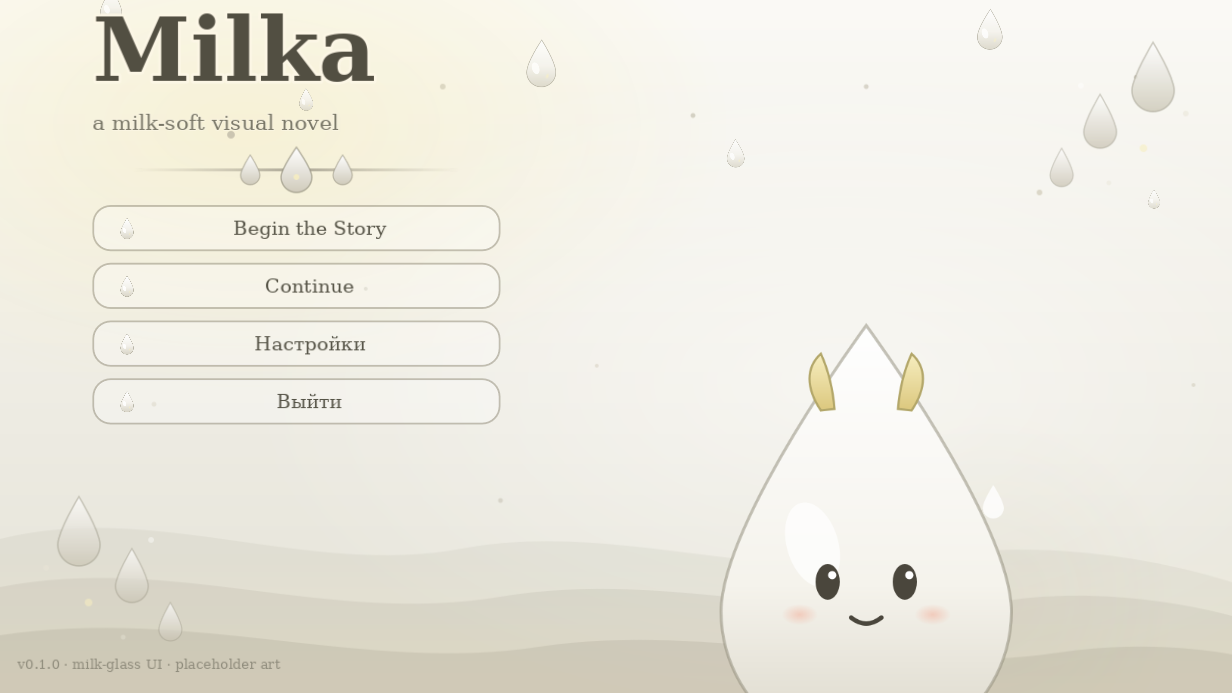
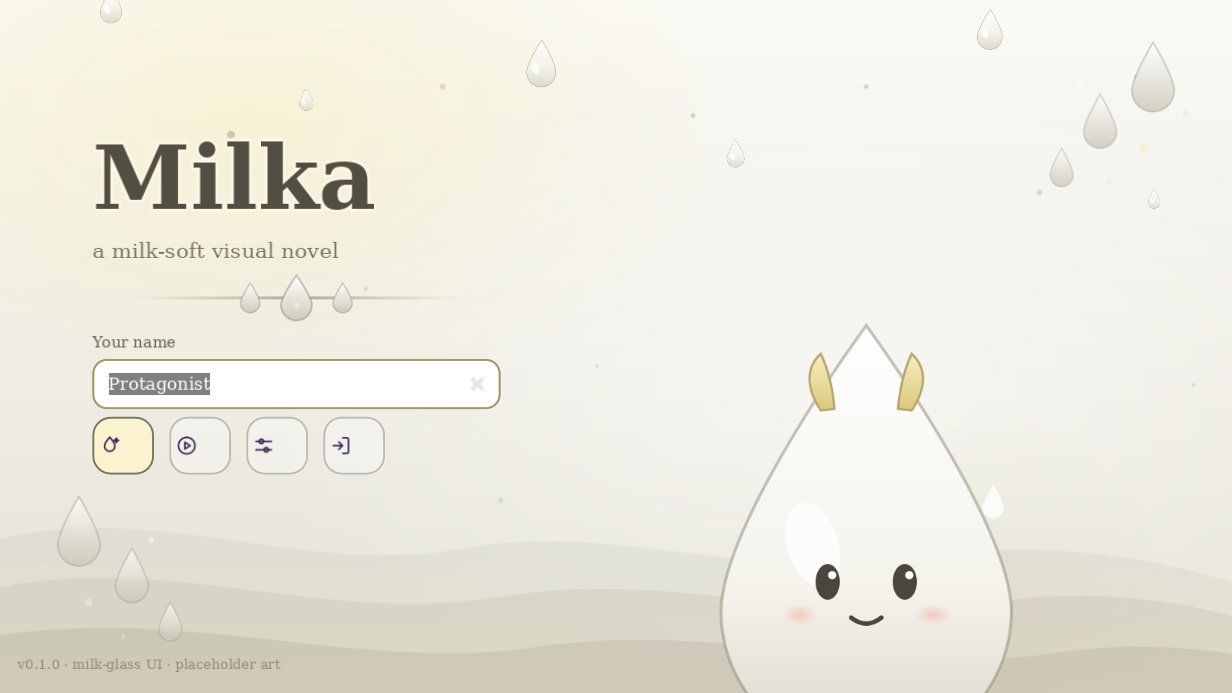
Translate all milk-glass UI strings + document how to customize them
- title screen: subtitle, version line, name label/placeholder/tooltip and the
  four icon-chip tooltips (from the shared TITLE_MENU table) are msgids,
  translated through *_MSGID constants in title_screen.gd
- settings panel: every row label + panel title + language names are msgids,
  translated by _retranslate(); language list now uses LANGUAGE_MSGIDS +
  LANGUAGE_CODES so adding a locale is one edit
- both scenes re-translate live on NOTIFICATION_TRANSLATION_CHANGED (guarded
  with is_node_ready(), the notification can arrive before _ready)
- i18n/ru.po: added the missing UI msgids (subtitle, version, name tooltip,
  Begin the Story, Continue, English, Russian)
- FIX: ambient animation still overwrote TitleBlock:position:y, dragging the
  whole menu to y=0 - track removed (AnimationLibrary kept)
- docs/TRANSLATING.md: how to change a translation, add a string, add a
  language, and how to verify; linked from README
- tools/probe_i18n_ui.gd + probe_i18n_switch.gd: every authored string printed
  in both locales (zero script errors) and live switching verified
- screenshots: title + settings in Russian

Changed region(s): [[0.0617, 0.1515, 0.401, 0.6667], [0.0617, 0.0, 0.3084, 0.1212], [0.0925, 0.6667, 0.1234, 0.697]]

diff --git a/docs/TRANSLATING.md b/docs/TRANSLATING.md
@@ -1,0 +1,114 @@
+# Translating the UI
+
+Every string this project shows is translatable. This guide covers the parts
+added with the milk-glass UI (title screen, settings panel, droplet chrome)
+and how to change or extend them.
+
+## How translation works here
+
+* **Source language is English.** The English text in the `.tscn` / `.gd` file
+  *is* the msgid. `tr("Settings")` looks up `Settings` in the active catalog;
+  if nothing matches, the English text is shown as-is.
+* **Catalogs live in `i18n/*.po`.** Only `i18n/ru.po` is registered today
+  (`project.godot` → `locale/translations`).
+* **The active language is a setting.** `SettingsStore`
+  (`autoloads/settings_store.gd`) writes `language` into `user://settings.json`
+  and calls `TranslationServer.set_locale()`. The title screen and the in-game
+  panel share that file, so a change in one place applies everywhere.
+* **Strings re-translate live.** Both the title screen
+  (`scenes/title_screen.gd`) and the settings panel
+  (`scenes/ui/settings_panel.gd`) listen for `NOTIFICATION_TRANSLATION_CHANGED`
+  and re-apply their strings, so switching language needs no restart.
+
+## Where the translatable strings are
+
+| Where | What | How it is looked up |
+| --- | --- | --- |
+| `scenes/title_screen.tscn` | subtitle, version line, name label, name placeholder, name tooltip | `_translate_labels()` in `scenes/title_screen.gd`, via the `*_MSGID` constants at the top of that file |
+| `MilkGlass.TITLE_MENU` (`scenes/ui/milk_glass.gd`) | icon-chip tooltips: "Begin the Story", "Continue", "Settings", "Quit" | `_translate_labels()` translates each entry of the shared table |
+| `scenes/ui/settings_panel.tscn` | panel title, row labels ("Language", "Text speed", "Text size", "Fullscreen", "V-Sync", "Master volume", "SFX volume"), language names | `_retranslate()` in `scenes/ui/settings_panel.gd`, via its `*_MSGID` constants |
+| `dialogue/*.dialogue` | story text and character names | Dialogue Manager, with context `dialogue` |
+| `scenes/vn_balloon.gd` | in-game chrome (save/load/skip/log/settings…) | `tr()` calls in the balloon script |
+
+Convention: the msgid constants at the top of each script are the single place
+to look when you want to know which strings a scene owns.
+
+## Change a translation
+
+1. Open `i18n/ru.po`.
+2. Find the msgid (the English text) and edit its `msgstr`:
+
+   ```po
+   msgid "Text speed"
+   msgstr "Скорость текста"
+   ```
+
+3. Save and run. No import step is needed — Godot reads `.po` files at startup.
+
+The msgid must match the source text **exactly**, including punctuation and the
+`·` separators in the version line.
+
+## Add a new translatable string
+
+1. Add the English text to the scene (or script) and wrap it in `tr()`:
+
+   ```gdscript
+   my_label.text = tr("My new label")
+   ```
+
+   For a `.tscn`-authored string, keep the English text in the scene and
+   translate it from the script (see `_translate_labels()`), so the authored
+   text and the msgid can never drift apart.
+2. Add the msgid to `i18n/ru.po`:
+
+   ```po
+   msgid "My new label"
+   msgstr "Моя новая подпись"
+   ```
+
+3. If the string belongs to a new scene, follow the same pattern: `*_MSGID`
+   constants, a `_retranslate()` function, and a `NOTIFICATION_TRANSLATION_CHANGED`
+   guard using `is_node_ready()` (the notification can arrive before `_ready()`
+   has run).
+
+## Add a new language
+
+1. Copy `i18n/ru.po` to `i18n/<code>.po` (e.g. `i18n/de.po`) and change the
+   header line `"Language: ru"` to the new code.
+2. Translate the `msgstr` values (msgids stay English).
+3. Register it in `project.godot`:
+
+   ```ini
+   [internationalization]
+
+   locale/translations=PackedStringArray("res://i18n/ru.po", "res://i18n/de.po")
+   ```
+
+4. Add it to the language dropdown in `scenes/ui/settings_panel.gd`:
+
+   ```gdscript
+   const LANGUAGE_MSGIDS := ["English", "Russian", "German"]
+   ```
+
+   and add the matching item to `LanguageOption` in
+   `scenes/ui/settings_panel.tscn` (`popup/item_2/text = "German"`), then map
+   the index in `_on_language_selected()`:
+
+   ```gdscript
+   const LANGUAGE_CODES := ["en", "ru", "de"]
+   ```
+
+   (Keep the item order in the `.tscn`, `LANGUAGE_MSGIDS` and `LANGUAGE_CODES`
+   identical — the dropdown index selects all three.)
+
+## Check your work
+
+A headless probe prints every authored string in both locales:
+
+```bash
+godot --headless --path . --script res://tools/probe_i18n_ui.gd
+```
+
+It should print each string twice, once per locale, with **zero** `SCRIPT ERROR`
+lines. `tools/probe_i18n_switch.gd` additionally switches language at runtime
+and confirms the strings change without a scene restart.

diff --git a/README.md b/README.md
@@ -176,6 +176,13 @@ Continue button resumes the newest save slot (`user://saves/slot_*.json`).
 breathing idle loop, random blinking, `set_expression("neutral"|"happy"|"surprised")`,
 `greet()` hop. Preview it via `scenes/character/character_showcase.tscn`.
 
+## 🌍 Translating the UI
+Every UI string is a msgid (the English source text). Catalogs live in
+`i18n/*.po`; the active language is a shared setting, so the title screen and
+the in-game panel always match. Full guide — changing a translation, adding a
+string, adding a language, and how to check your work:
+[`docs/TRANSLATING.md`](docs/TRANSLATING.md).
+
 ## 📸 Screenshots (headless sway + pixman)
 ```
 sway -c <(echo 'output HEADLESS-1 mode 1280x720') &
